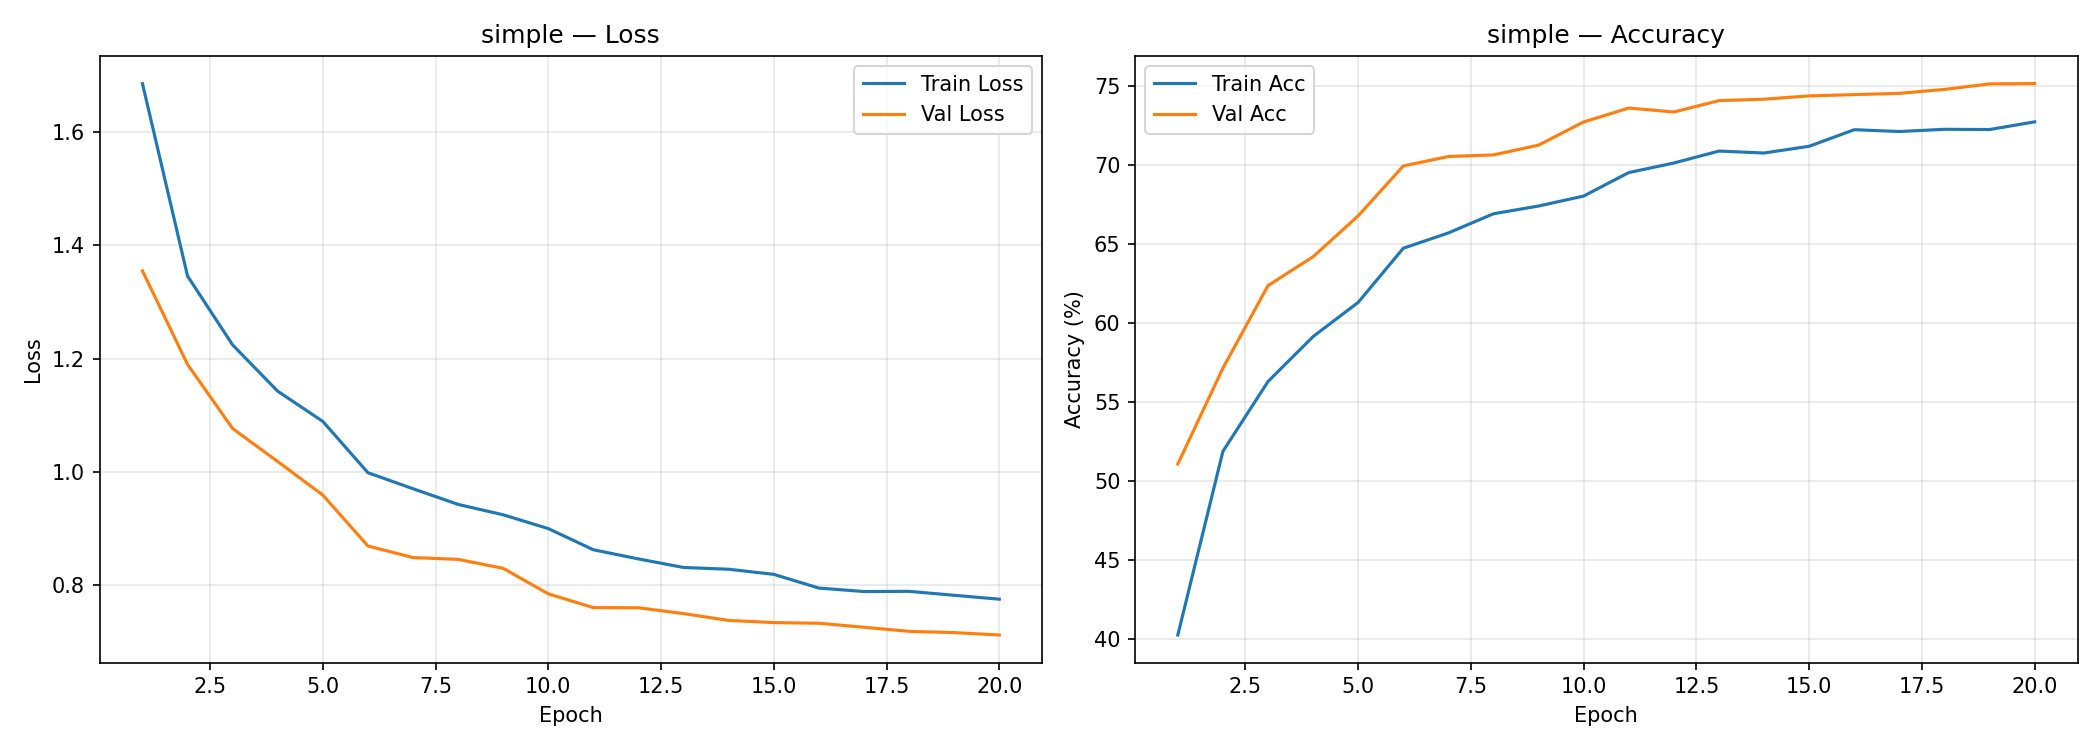
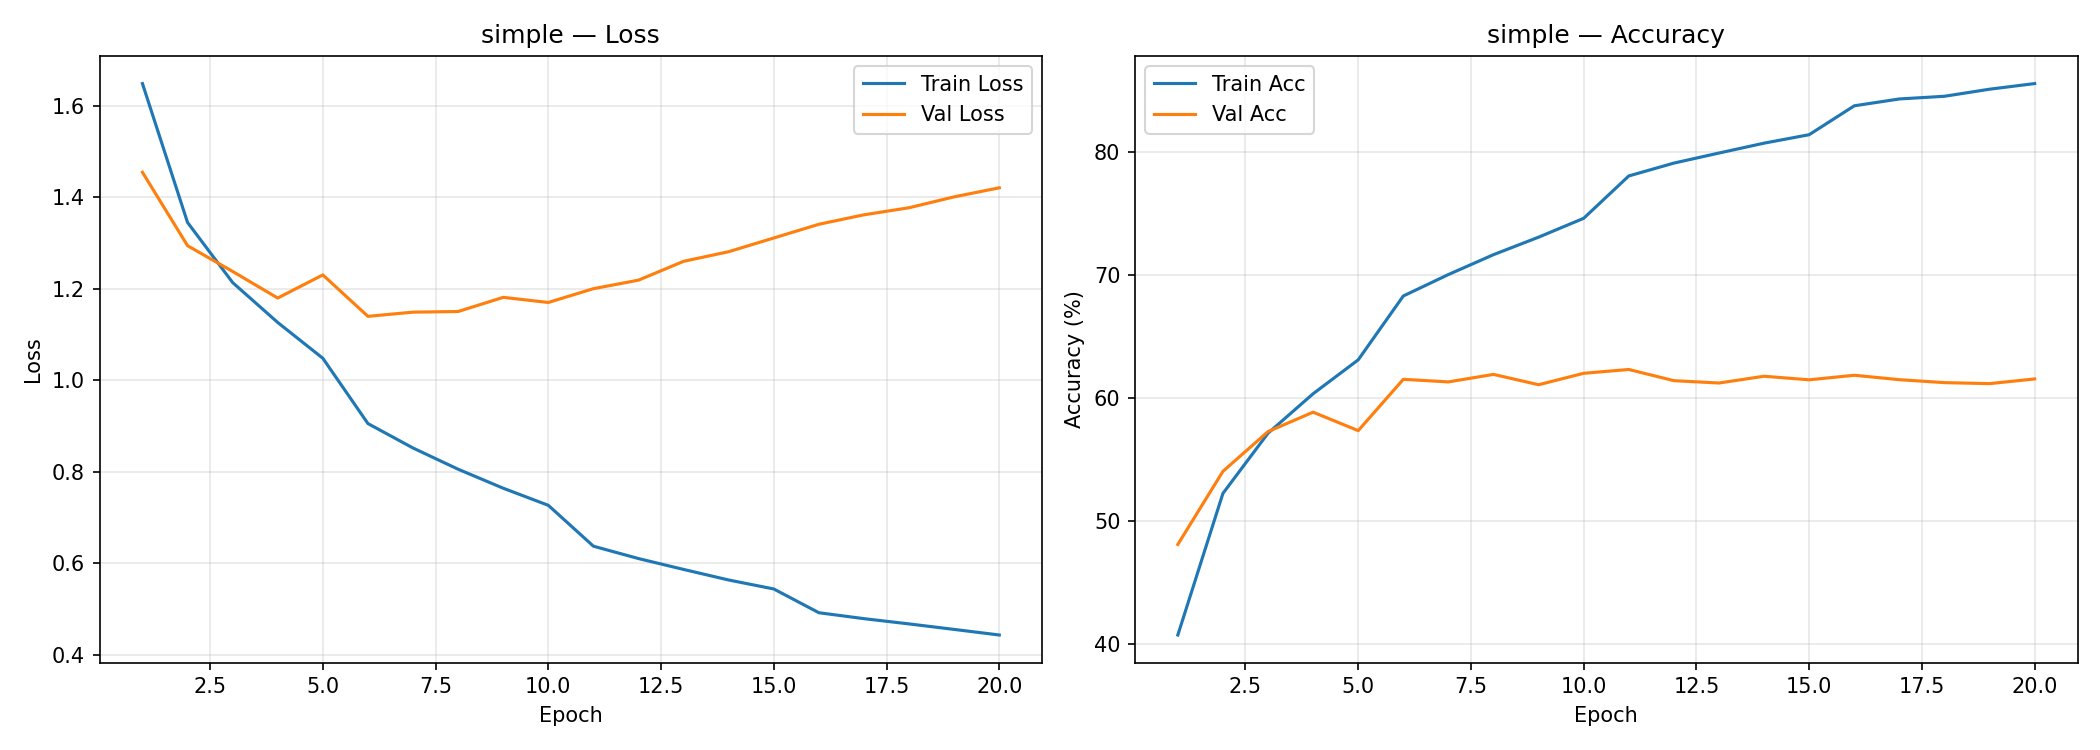
created the three models for training

diff --git a/src/models.py b/src/models.py
@@ -19,24 +19,27 @@ def _apply_kaiming_init(model: nn.Module) -> None:
             init.ones_(m.weight)
             init.zeros_(m.bias)
 
-# Model 1 — Simple CNN (baseline)
-# A minimal 2-conv-layer CNN for CIFAR-10.
+# Model 1 — Simple LeNet-5 CNN (baseline)
+# Source: https://www.geeksforgeeks.org/computer-vision/lenet-5-architecture/
 class SimpleCNN(nn.Module):
     def __init__(self, num_classes: int = 10):
         super().__init__()
         self.features = nn.Sequential(
-            nn.Conv2d(3, 32, kernel_size=3, padding=1),
+            nn.Conv2d(3, 6, kernel_size=5, padding=0, stride=1), # Layer 1: Convolution (1 32x32 => 6 28x28)
             nn.ReLU(inplace=True),
-            nn.MaxPool2d(2, 2),
+            nn.MaxPool2d(2, 2), # Layer 2: Pooling (6 28x28 => 6 14x14)
 
-            nn.Conv2d(32, 64, kernel_size=3, padding=1),
+            nn.Conv2d(6, 16, kernel_size=5, padding=0), # Layer 3: Convolution (6 14x14 => 16 10x10)
             nn.ReLU(inplace=True),
-            nn.MaxPool2d(2, 2),
+            nn.MaxPool2d(2, 2), # Layer 4: Pooling (16 10x10 => 16 5x5)
+            
         )
         self.classifier = nn.Sequential(
-            nn.Linear(64 * 8 * 8, 256),
+            nn.Linear(400, 120), # Layer 5: Fully Connects the flattened layer (16 5x5 => 1 120)
             nn.ReLU(inplace=True),
-            nn.Linear(256, num_classes),
+            nn.Linear(120, 84),
+            nn.ReLU(inplace=True),
+            nn.Linear(84, num_classes), # Layer 6: Output (1 120 => 10 32x32)
         )
 
         # Apply Kaiming uniform initialisation
@@ -44,88 +47,66 @@ class SimpleCNN(nn.Module):
 
     def forward(self, x: torch.Tensor) -> torch.Tensor:
         x = self.features(x)
-        x = x.view(x.size(0), -1)
+        x = x.view(x.size(0), -1) # Flattens feature maps
         x = self.classifier(x)
         return x
 
-
-# Model 2 — Medium CNN (with batch-norm)
-# A 4-conv-layer CNN with batch normalisation.
+# Model 2 — leNet-5 with average pooling vs max pooling
+# Reasoning: Max pooling always gets the highest value within a kernel, whilst average gets the average of all values in a kernel
 class MediumCNN(nn.Module):
 
     def __init__(self, num_classes: int = 10):
         super().__init__()
         self.features = nn.Sequential(
-            nn.Conv2d(3, 32, kernel_size=3, padding=1),
-            nn.BatchNorm2d(32),
+            nn.Conv2d(3, 6, kernel_size=5, padding=0, stride=1), # Layer 1: Convolution (1 32x32 => 6 28x28)
             nn.ReLU(inplace=True),
-            nn.Conv2d(32, 32, kernel_size=3, padding=1),
-            nn.BatchNorm2d(32),
-            nn.ReLU(inplace=True),
-            nn.MaxPool2d(2, 2),
+            nn.AvgPool2d(2, 2), # Layer 2: Pooling (6 28x28 => 6 14x14)
 
-            nn.Conv2d(32, 64, kernel_size=3, padding=1),
-            nn.BatchNorm2d(64),
+            nn.Conv2d(6, 16, kernel_size=5, padding=0), # Layer 3: Convolution (6 14x14 => 16 10x10)
             nn.ReLU(inplace=True),
-            nn.Conv2d(64, 64, kernel_size=3, padding=1),
-            nn.BatchNorm2d(64),
-            nn.ReLU(inplace=True),
-            nn.MaxPool2d(2, 2),
+            nn.AvgPool2d(2, 2), # Layer 4: Pooling (16 10x10 => 16 5x5)
+            
         )
         self.classifier = nn.Sequential(
-            nn.Linear(64 * 8 * 8, 512),
+            nn.Linear(400, 120), # Layer 5: Convolution/Fully  Connected (16 5x5 => 1 120)
             nn.ReLU(inplace=True),
-            nn.Linear(512, num_classes),
+            nn.Linear(120, 84),
+            nn.ReLU(inplace=True),
+            nn.Linear(84, num_classes), # Layer 6: Output (1 120 => 10 32x32)
         )
 
         _apply_kaiming_init(self)
 
     def forward(self, x: torch.Tensor) -> torch.Tensor:
         x = self.features(x)
-        x = x.view(x.size(0), -1)
+        x = x.view(x.size(0), -1) # Flattens feature maps
         x = self.classifier(x)
         return x
 
 
-# Model 3 — Deep CNN (with batch-norm + dropout)
-# A 6-conv-layer CNN with batch normalisation and dropout.
+# Model 3 — Dropout + AvgPooling
+# Reasoning: Dropout is essentially dropping a % of the neurons, prevents overfitting
 class DeepCNN(nn.Module):
 
     def __init__(self, num_classes: int = 10):
         super().__init__()
         self.features = nn.Sequential(
-            nn.Conv2d(3, 64, kernel_size=3, padding=1),
-            nn.BatchNorm2d(64),
-            nn.ReLU(inplace=True),
-            nn.Conv2d(64, 64, kernel_size=3, padding=1),
-            nn.BatchNorm2d(64),
-            nn.ReLU(inplace=True),
-            nn.MaxPool2d(2, 2),
-            nn.Dropout2d(0.25),
+            nn.Conv2d(3, 6, kernel_size=5, padding=0, stride=1), # Layer 1: Convolution (1 32x32 => 6 28x28)
+            nn.ReLU(),
+            nn.AvgPool2d(2, 2), # Layer 2: Pooling (6 28x28 => 6 14x14)
 
-            nn.Conv2d(64, 128, kernel_size=3, padding=1),
-            nn.BatchNorm2d(128),
-            nn.ReLU(inplace=True),
-            nn.Conv2d(128, 128, kernel_size=3, padding=1),
-            nn.BatchNorm2d(128),
-            nn.ReLU(inplace=True),
-            nn.MaxPool2d(2, 2),
-            nn.Dropout2d(0.25),
-
-            nn.Conv2d(128, 256, kernel_size=3, padding=1),
-            nn.BatchNorm2d(256),
-            nn.ReLU(inplace=True),
-            nn.Conv2d(256, 256, kernel_size=3, padding=1),
-            nn.BatchNorm2d(256),
-            nn.ReLU(inplace=True),
-            nn.MaxPool2d(2, 2),
-            nn.Dropout2d(0.25),
+            nn.Conv2d(6, 16, kernel_size=5, padding=0), # Layer 3: Convolution (6 14x14 => 16 10x10)
+            nn.ReLU(),
+            nn.AvgPool2d(2, 2), # Layer 4: Pooling (16 10x10 => 16 5x5) 
+            
         )
         self.classifier = nn.Sequential(
-            nn.Linear(256 * 4 * 4, 512),
+            nn.Linear(400, 120), # Layer 5: Convolution/Fully  Connected (16 5x5 => 1 120)
             nn.ReLU(inplace=True),
-            nn.Dropout(0.5),
-            nn.Linear(512, num_classes),
+            nn.Linear(120, 84),
+            nn.Dropout(p=0.2, inplace=True),
+            nn.ReLU(inplace=True),
+            nn.Linear(84, num_classes), # Layer 6: Output (1 120 => 10 32x32)
         )
 
         _apply_kaiming_init(self)
